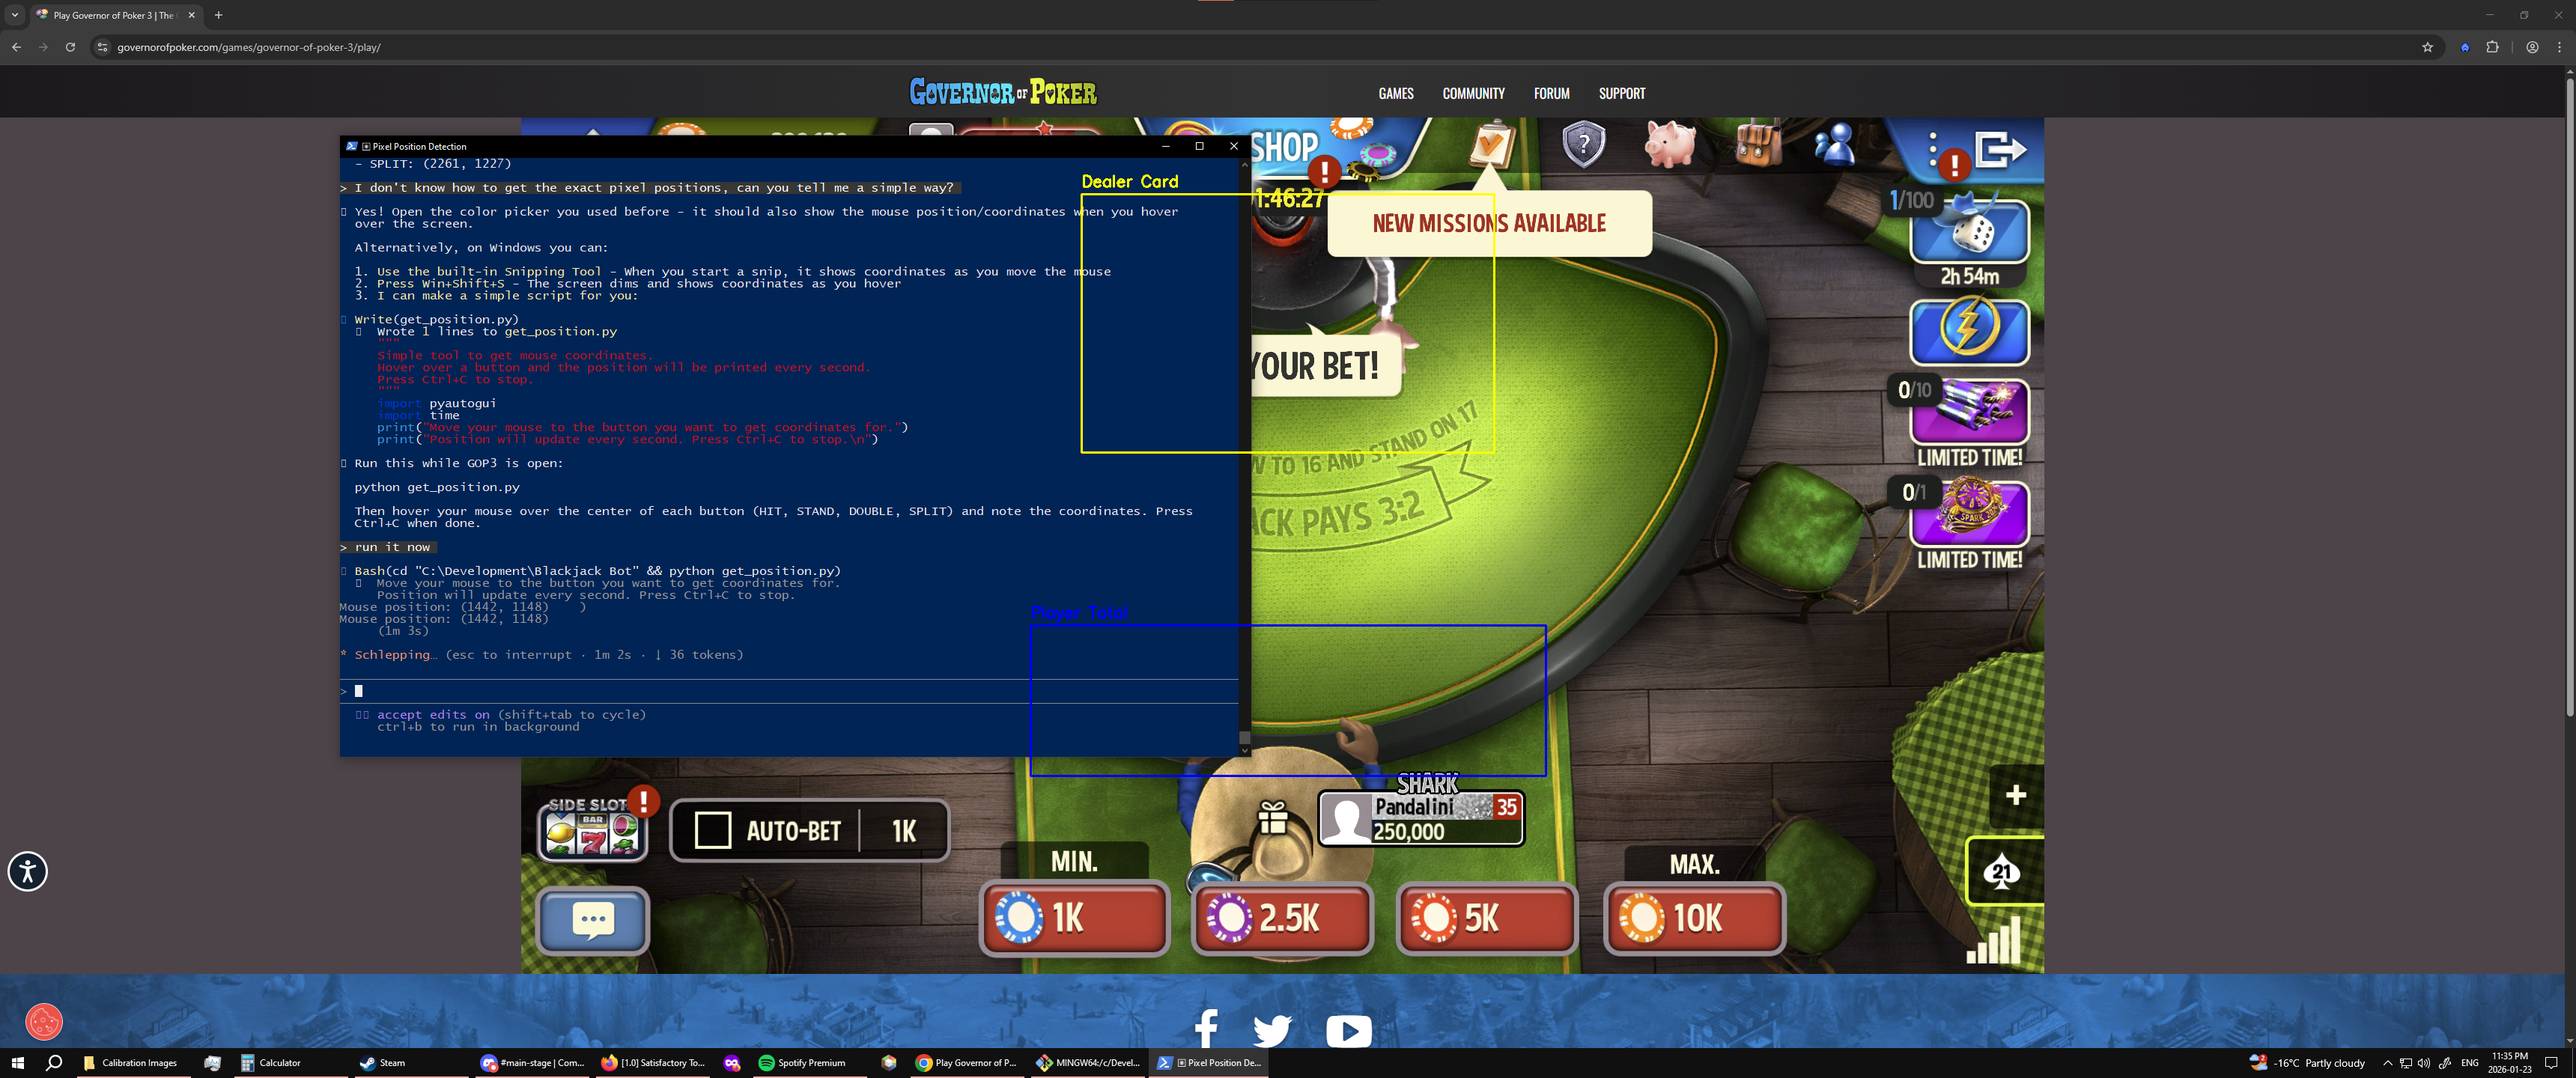
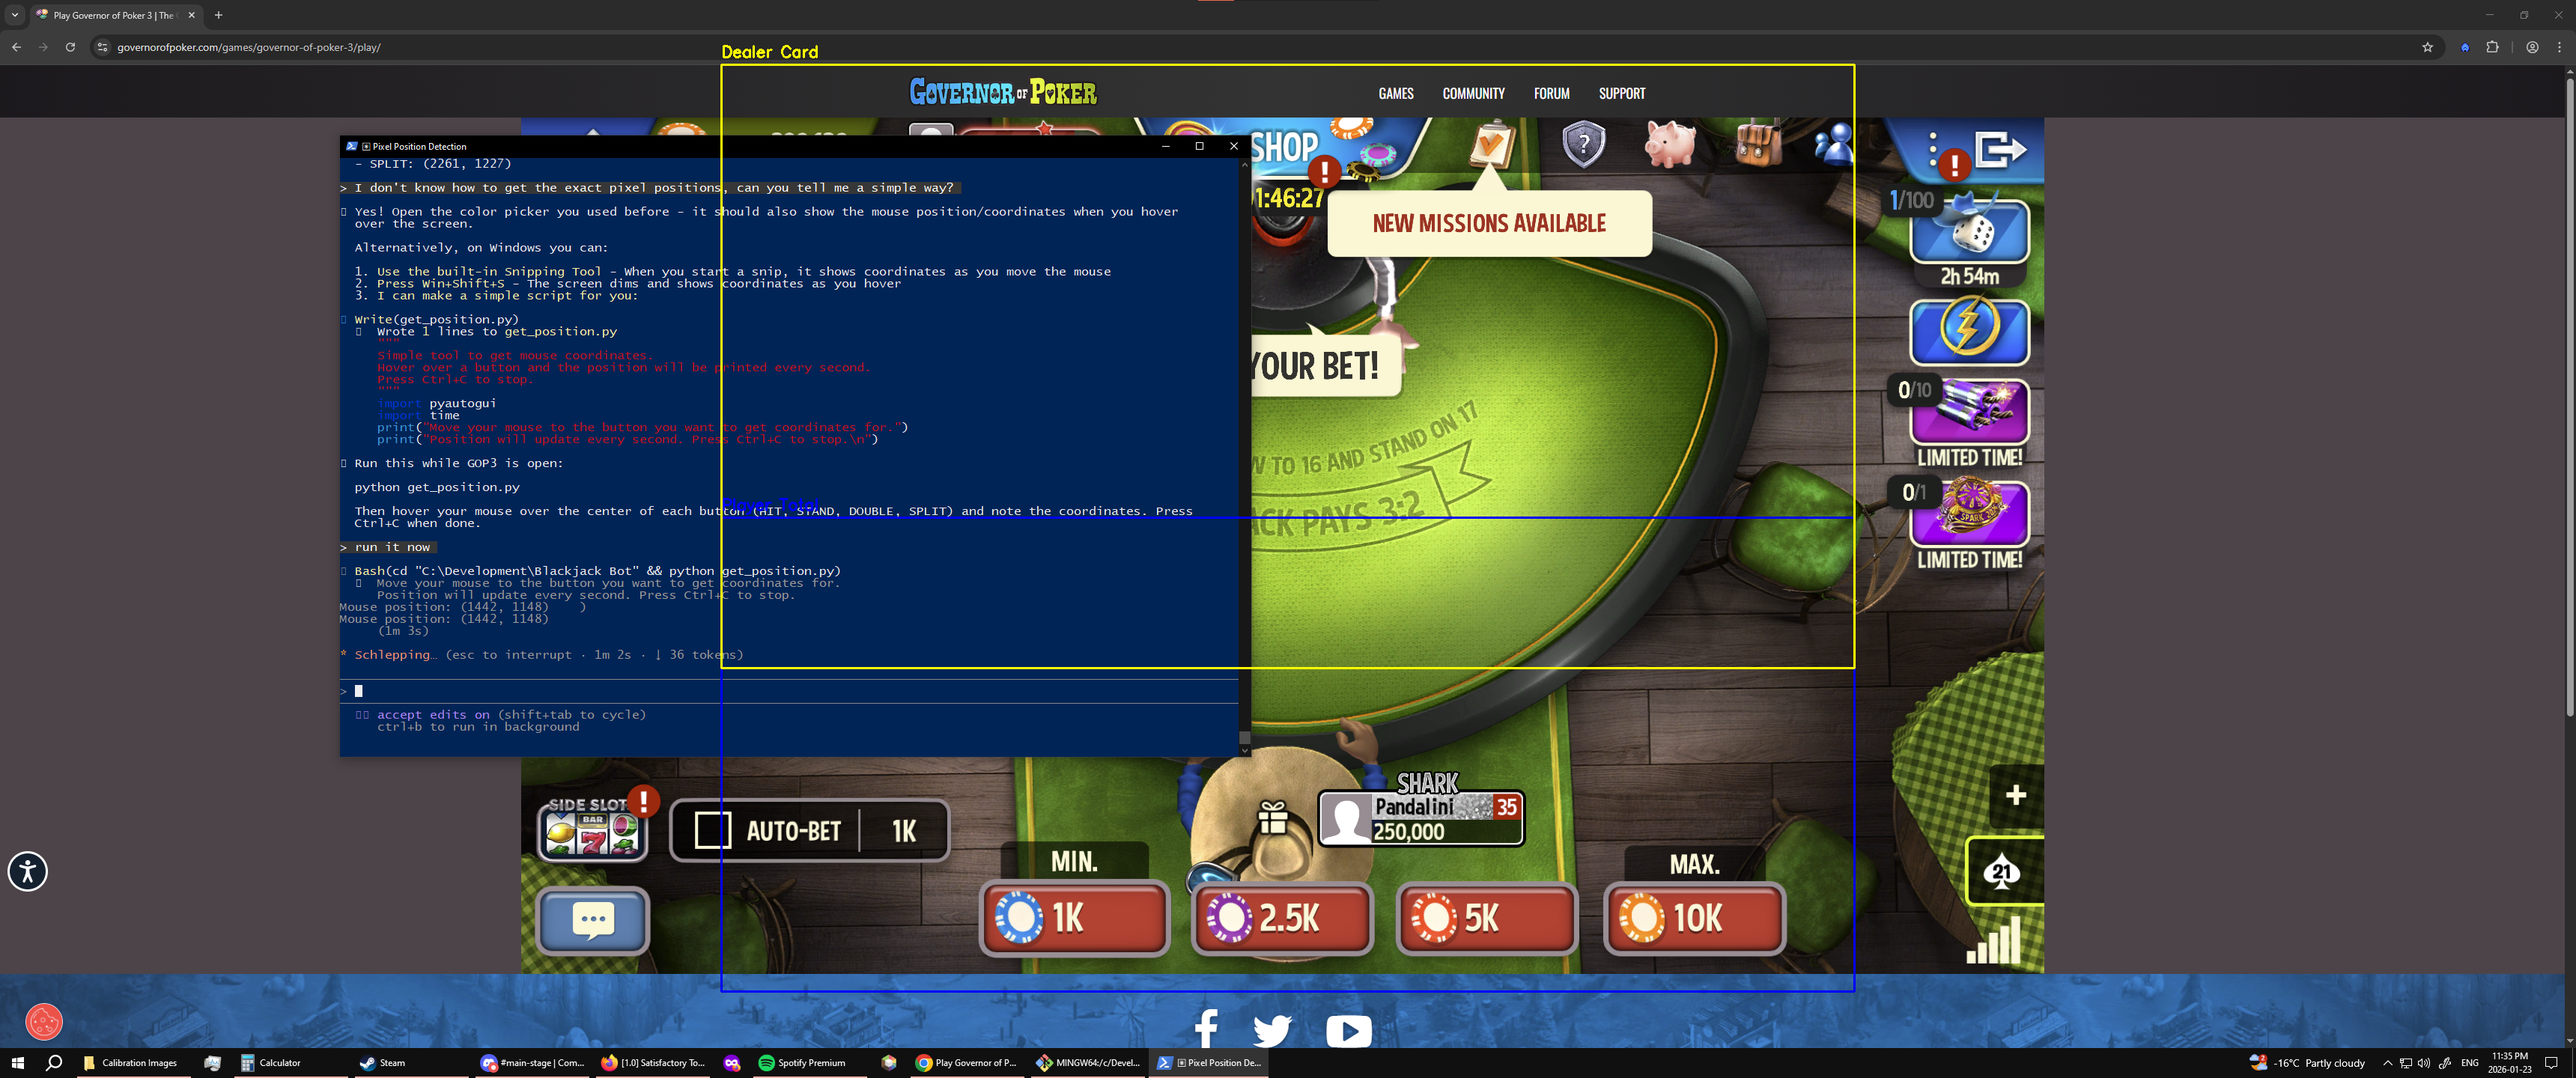
Improve reactive state detection and fast total reads

diff --git a/gop3_config.py b/gop3_config.py
@@ -21,14 +21,14 @@ SCREEN_HEIGHT = 1800
 # These are the exact center positions of each button
 # Adjusted +80 pixels right and -80 pixels up (diagonally up-right)
 BUTTON_POSITIONS = {
-    'hit': (1290, 1553),
-    'stand': (1619, 1545),
-    'double': (1843, 1545),
-    'split': (2155, 1554),
+    'hit': (1230, 1671),
+    'stand': (1618, 1674),
+    'double': (1959, 1678),
+    'split': (2266, 1680),
 }
 
 # Bet button position (1K bet - leftmost bet button)
-BET_BUTTON_POSITION = (1270, 1530)
+BET_BUTTON_POSITION = (1231, 1661)
 
 # Use fixed positions instead of detection
 USE_FIXED_BUTTONS = True
@@ -63,28 +63,28 @@ BUTTON_MIN_HEIGHT = 30
 # Player total region (where the number like "12" or "10/20" appears)
 # Based on analysis: bottom center area
 PLAYER_TOTAL_REGION = {
-    'x_percent': (0.40, 0.60),
-    'y_percent': (0.34, 0.48),
+    'x_percent': (0.28, 0.72),
+    'y_percent': (0.48, 0.92),
 }
 
 # Dealer card region (where dealer's up card appears)
 # Based on analysis: top center area
 DEALER_CARD_REGION = {
-    'x_percent': (0.22, 0.38),
-    'y_percent': (0.31, 0.55),
+    'x_percent': (0.28, 0.72),
+    'y_percent': (0.06, 0.62),
 }
 
 # Dealer total region (blue circle indicator with one card face down)
 # Defaults to the same area as the dealer card region.
 DEALER_TOTAL_REGION = {
-    'x_percent': (0.22, 0.38),
-    'y_percent': (0.31, 0.55),
+    'x_percent': (0.28, 0.72),
+    'y_percent': (0.06, 0.62),
 }
 
 # Player card region (used for sanity-check OCR of card ranks)
 PLAYER_CARD_REGION = {
-    'x_percent': (0.43, 0.57),
-    'y_percent': (0.34, 0.47),
+    'x_percent': (0.28, 0.72),
+    'y_percent': (0.48, 0.92),
 }
 
 # Card rank detection
@@ -97,9 +97,9 @@ SCAN_INTERVAL = 0.1     # How often to scan the screen
 POST_CLICK_DELAY = 0.3  # Wait after clicking before next scan
 
 # Adaptive/event-driven scanning (recommended)
-BETTING_SCAN_INTERVAL = 0.8       # Slow poll while waiting to bet/deal
-WAITING_SCAN_INTERVAL = 0.8       # Slow poll while dealer plays / between hands
-PLAYER_TURN_SCAN_INTERVAL = 0.12  # Fast poll during player_turn (mostly cached reads)
+BETTING_SCAN_INTERVAL = 0.4       # Slow poll while waiting to bet/deal
+WAITING_SCAN_INTERVAL = 0.4       # Slow poll while dealer plays / between hands
+PLAYER_TURN_SCAN_INTERVAL = 0.06  # Fast poll during player_turn (mostly cached reads)
 
 # Action-specific post-click delays (animation settling)
 # Tuned from observed GOP3 timings (windowed, 100% DPI).
@@ -126,7 +126,7 @@ HUMAN_DELAY_MIN = 0.0   # Minimum delay before clicking (seconds)
 HUMAN_DELAY_MAX = 0.0   # Maximum delay before clicking (seconds)
 
 # Click verification (keep tight so turns stay within timing budget)
-CLICK_VERIFY_ENABLED = True
+CLICK_VERIFY_ENABLED = False
 CLICK_VERIFY_TIMEOUT = 0.8
 CLICK_VERIFY_INTERVAL = 0.08
 CLICK_VERIFY_STABLE_COUNT = 2
@@ -199,11 +199,11 @@ DEBUG_IMAGE_PATH = "debug_captures"
 
 # Blue circle total detection (HSV + geometry)
 # Tuned for both blue and green table backgrounds (circle is brighter, less saturated)
-BLUE_CIRCLE_HSV_LOWER = (45, 20, 170)
-BLUE_CIRCLE_HSV_UPPER = (130, 160, 255)
+BLUE_CIRCLE_HSV_LOWER = (30, 5, 120)
+BLUE_CIRCLE_HSV_UPPER = (150, 255, 255)
 BLUE_CIRCLE_MIN_AREA = 100
 BLUE_CIRCLE_MIN_SIZE = 20
-BLUE_CIRCLE_ASPECT_RANGE = (0.5, 2.5)  # Wider range for soft hands like "8/18"
+BLUE_CIRCLE_ASPECT_RANGE = (0.35, 3.8)
 OCR_SCALE = 3.0
 OCR_PSMS = (11, 6, 8, 10, 13)
 OCR_FAST_MODE = False
@@ -215,7 +215,7 @@ OCR_TEXT_MIN_PIXELS = 20
 CARD_OCR_PSM = 11
 CARD_OCR_MIN_CONF = 50
 ENABLE_CARD_SANITY_CHECK = True
-CARD_SANITY_STRICT = True
+CARD_SANITY_STRICT = False
 
 # Total read mode: "template" (fast) or "ocr"
 TOTAL_READ_MODE = "ocr"
@@ -238,9 +238,14 @@ TEMPLATE_MAX_COMPONENTS = 6
 TEMPLATE_FALLBACK_TO_OCR = True
 
 # Total read synchronization
-TOTAL_READ_MAX_WAIT = 0.8
-TOTAL_READ_STABLE_COUNT = 2
-TOTAL_READ_INTERVAL = 0.05
+TOTAL_READ_MAX_WAIT = 1.2
+TOTAL_READ_STABLE_COUNT = 1
+TOTAL_READ_INTERVAL = 0.06
+
+# Faster reads after actions (e.g., after HIT) while waiting for totals to change.
+TOTAL_READ_MAX_WAIT_AFTER_ACTION = 0.6
+TOTAL_READ_STABLE_COUNT_AFTER_ACTION = 1
+TOTAL_READ_INTERVAL_AFTER_ACTION = 0.03
 
 # Optional dealer up-card OCR (disable to speed up totals read)
 READ_DEALER_CARD = False

diff --git a/blackjack_bot.py b/blackjack_bot.py
@@ -191,10 +191,15 @@ class BlackjackBot:
         required = tuple(getattr(config, "REQUIRE_BUTTONS_FOR_ACTION", ("hit", "stand")))
         has_required_buttons = all(b in buttons for b in required) if required else bool(buttons)
 
-        if total is not None:
-            state['phase'] = 'player_turn' if has_required_buttons else 'dealer_turn'
+        if has_required_buttons:
+            state['phase'] = 'player_turn'
+        elif total is not None:
+            state['phase'] = 'dealer_turn'
         else:
-            state['phase'] = 'betting' if state.get('betting_ui', False) else 'waiting'
+            if state.get('dealer_total') is not None and not state.get('bet_button_visible', False):
+                state['phase'] = 'waiting'
+            else:
+                state['phase'] = 'betting' if state.get('betting_ui', False) else 'waiting'
 
         if diag and getattr(diag, "enabled", False):
             try:
@@ -208,6 +213,11 @@ class BlackjackBot:
         max_wait = getattr(config, 'TOTAL_READ_MAX_WAIT', 2.5)
         stable_needed = getattr(config, 'TOTAL_READ_STABLE_COUNT', 2)
         interval = getattr(config, 'TOTAL_READ_INTERVAL', 0.15)
+
+        if require_player_total_change:
+            max_wait = getattr(config, 'TOTAL_READ_MAX_WAIT_AFTER_ACTION', max_wait)
+            stable_needed = getattr(config, 'TOTAL_READ_STABLE_COUNT_AFTER_ACTION', stable_needed)
+            interval = getattr(config, 'TOTAL_READ_INTERVAL_AFTER_ACTION', interval)
 
         start = time.time()
         stable = 0

diff --git a/screen_capture.py b/screen_capture.py
@@ -1383,8 +1383,12 @@ class GOP3Detector:
         # Phase classification:
         # - Only call it "betting" when betting UI is visible.
         # - Missing totals + no betting UI is usually dealing/dealer/result => "waiting".
-        if total is not None:
-            state['phase'] = 'player_turn' if has_required_buttons else 'dealer_turn'
+        if has_required_buttons:
+            state['phase'] = 'player_turn'
+            if total is not None and getattr(self.config, 'READ_DEALER_CARD', False):
+                state['dealer_card'] = self.detect_dealer_card(screen)
+        elif total is not None:
+            state['phase'] = 'dealer_turn'
             if getattr(self.config, 'READ_DEALER_CARD', False):
                 state['dealer_card'] = self.detect_dealer_card(screen)
         else:
